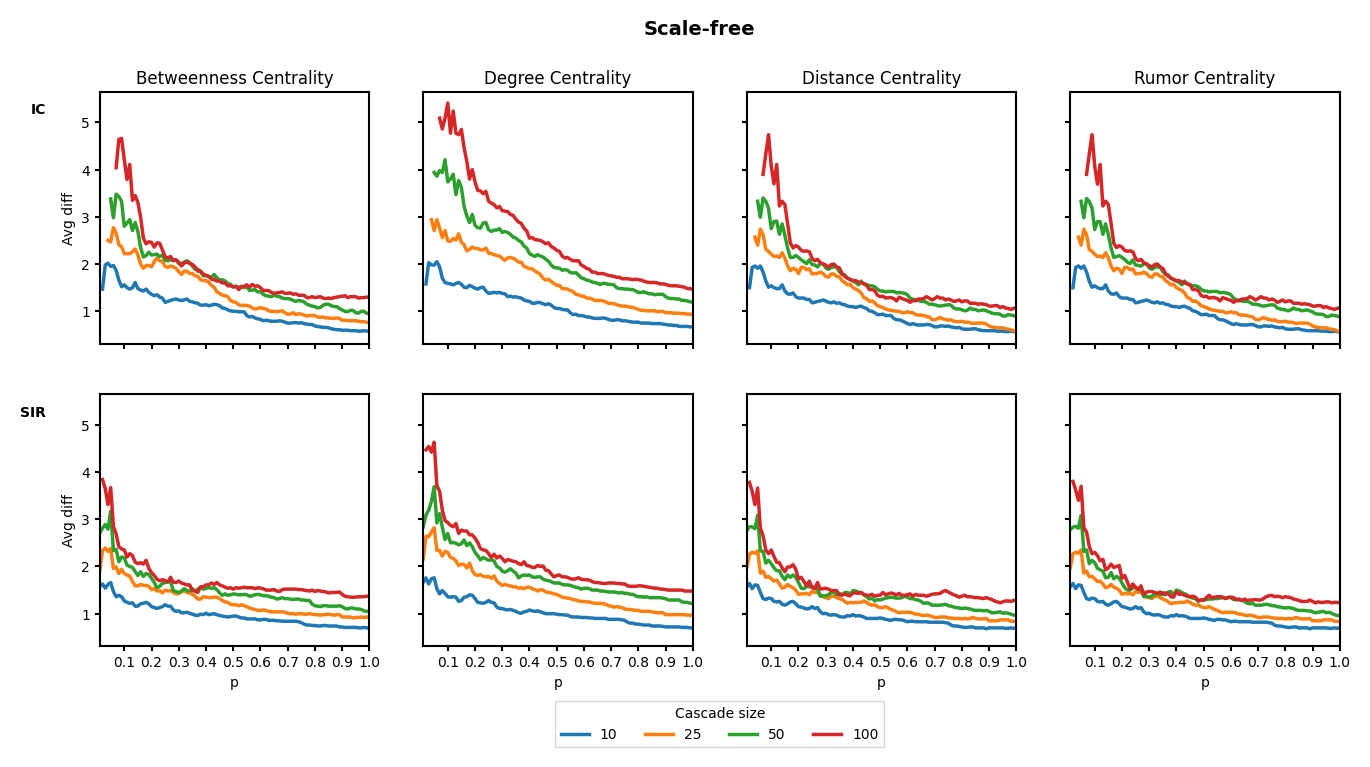
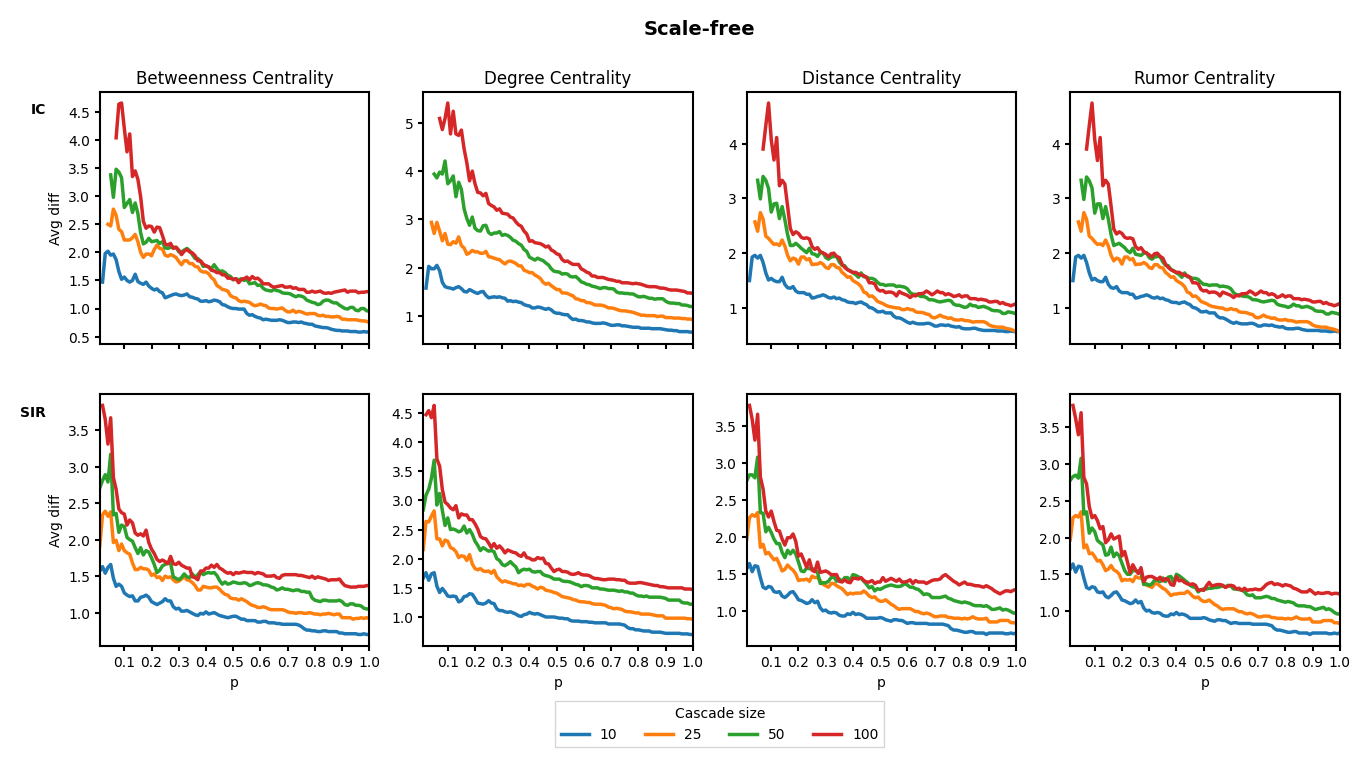
updated plots

diff --git a/src/patient_zero/experiments/plots.py b/src/patient_zero/experiments/plots.py
@@ -29,7 +29,7 @@ for graph_type in graph_types:
         ncols=len(CENTRALITY_MEASURES),
         figsize=(4 * len(CENTRALITY_MEASURES), 3.6 * len(MODELS)),
         sharex=True,
-        sharey=True,
+        sharey=False,
         squeeze=False,
     )
 
